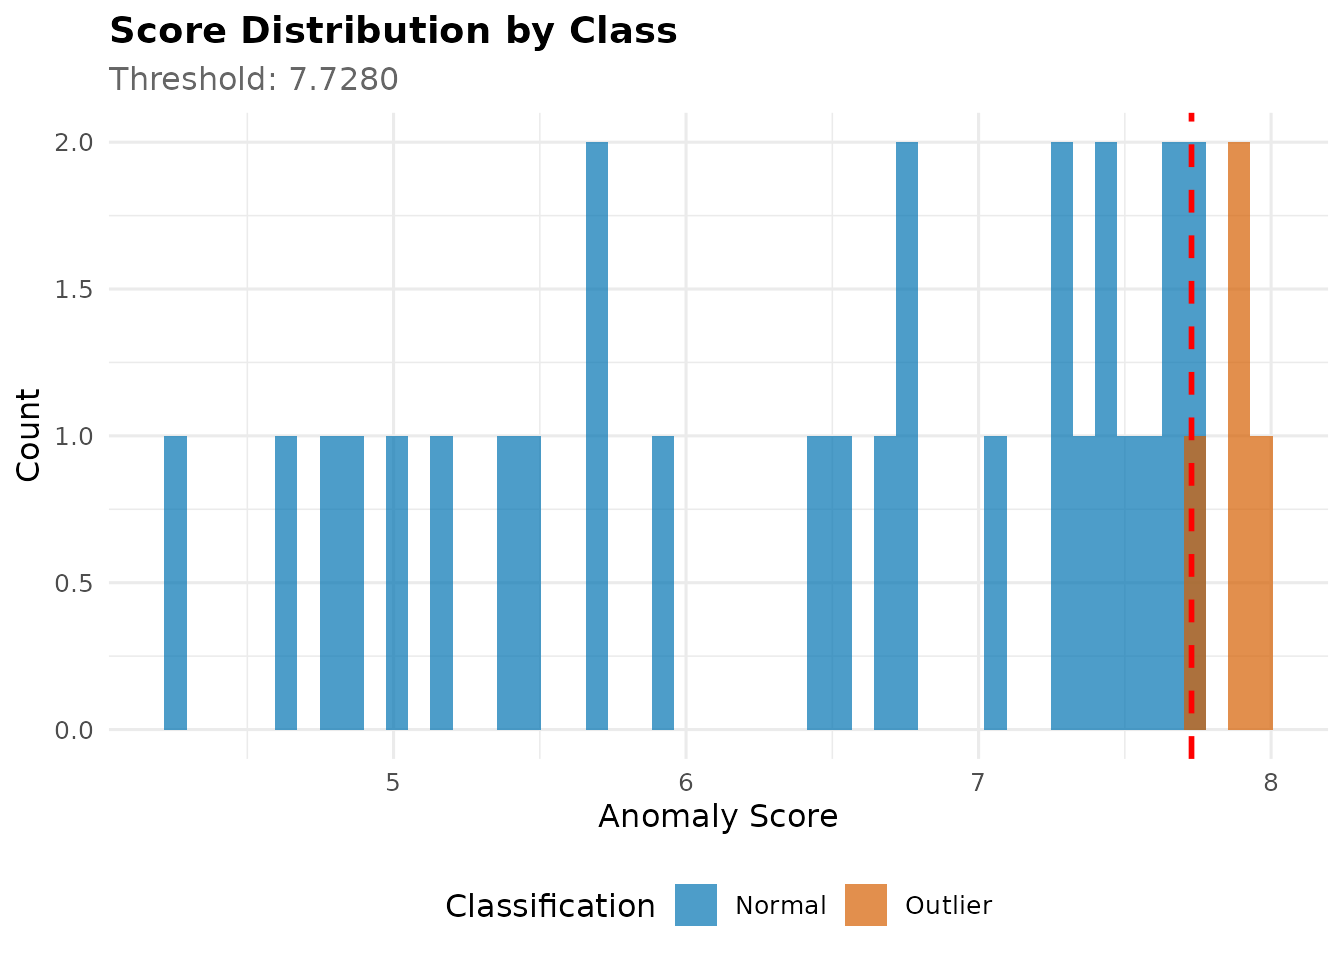
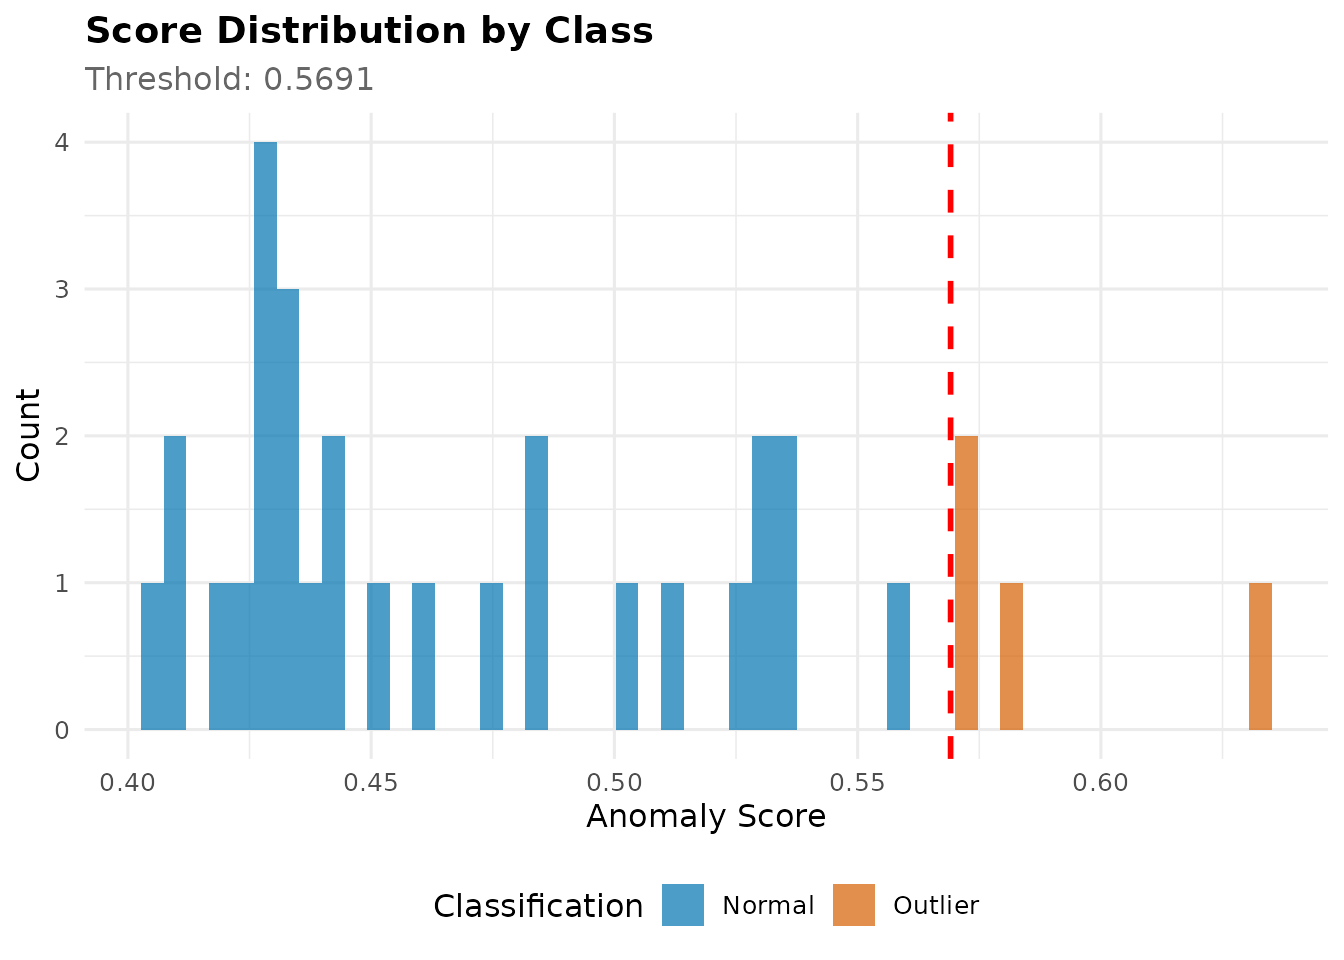
Deploying to gh-pages from @ fabiandistler/outlieR@ab6ea994765ed18bee1f989ade87fab2d98b21fa 🚀

diff --git a/articles/getting-started.html b/articles/getting-started.html
@@ -81,7 +81,7 @@
                         <h4 data-toc-skip class="author">Fabian
 Distler</h4>
             
-            <h4 data-toc-skip class="date">2025-10-14</h4>
+            <h4 data-toc-skip class="date">2025-10-15</h4>
       
       <small class="dont-index">Source: <a href="https://github.com/fabiandistler/outlieR/blob/main/vignettes/getting-started.Rmd" class="external-link"><code>vignettes/getting-started.Rmd</code></a></small>
       <div class="hidden name"><code>getting-started.Rmd</code></div>
@@ -765,25 +765,25 @@ easy to find outliers:</p>
 <span><span class="co">#&gt; </span></span>
 <span><span class="co">#&gt; Model Configuration:</span></span>
 <span><span class="co">#&gt;   - Algorithm: Isolation Forest (isotree)</span></span>
-<span><span class="co">#&gt;   - Number of trees: 100 </span></span>
+<span><span class="co">#&gt;   - Number of trees: 300 </span></span>
 <span><span class="co">#&gt;   - Sample size: 32 </span></span>
 <span><span class="co">#&gt;   - Max depth: auto </span></span>
 <span><span class="co">#&gt; </span></span>
 <span><span class="co">#&gt; Detection Summary:</span></span>
 <span><span class="co">#&gt;   - Total observations: 32 </span></span>
 <span><span class="co">#&gt;   - Outliers detected: 4 ( 12.5 %)</span></span>
-<span><span class="co">#&gt;   - Anomaly score threshold: 7.728 </span></span>
+<span><span class="co">#&gt;   - Anomaly score threshold: 0.5691 </span></span>
 <span><span class="co">#&gt; </span></span>
 <span><span class="co">#&gt; Performance Metrics:</span></span>
-<span><span class="co">#&gt;   - mean_score : 6.5943 </span></span>
-<span><span class="co">#&gt;   - median_score : 6.9318 </span></span>
-<span><span class="co">#&gt;   - sd_score : 1.1581 </span></span>
-<span><span class="co">#&gt;   - min_score : 4.2544 </span></span>
-<span><span class="co">#&gt;   - max_score : 7.9675 </span></span>
-<span><span class="co">#&gt;   - mean_outlier_score : 7.8678 </span></span>
-<span><span class="co">#&gt;   - mean_normal_score : 6.4124 </span></span>
-<span><span class="co">#&gt;   - cohens_d : 1.8233 </span></span>
-<span><span class="co">#&gt;   - outlier_separation : 1.2567 </span></span>
+<span><span class="co">#&gt;   - mean_score : 0.4795 </span></span>
+<span><span class="co">#&gt;   - median_score : 0.4564 </span></span>
+<span><span class="co">#&gt;   - sd_score : 0.0617 </span></span>
+<span><span class="co">#&gt;   - min_score : 0.405 </span></span>
+<span><span class="co">#&gt;   - max_score : 0.6327 </span></span>
+<span><span class="co">#&gt;   - mean_outlier_score : 0.5898 </span></span>
+<span><span class="co">#&gt;   - mean_normal_score : 0.4637 </span></span>
+<span><span class="co">#&gt;   - cohens_d : 3.2198 </span></span>
+<span><span class="co">#&gt;   - outlier_separation : 2.0432 </span></span>
 <span><span class="co">#&gt;   - detection_rate : 0.125 </span></span>
 <span><span class="co">#&gt;   - expected_contamination : 0.1 </span></span>
 <span><span class="co">#&gt;   - actual_contamination : 0.125 </span></span>
@@ -800,39 +800,39 @@ easy to find outliers:</p>
 <span><span class="fu">utils</span><span class="fu">::</span><span class="fu"><a href="https://rdrr.io/r/utils/head.html" class="external-link">head</a></span><span class="op">(</span><span class="va">summary_dt</span><span class="op">)</span></span>
 <span><span class="co">#&gt;    row_id anomaly_score n_outlier_features</span></span>
 <span><span class="co">#&gt;     &lt;int&gt;         &lt;num&gt;              &lt;int&gt;</span></span>
-<span><span class="co">#&gt; 1:     23      7.967466                  0</span></span>
-<span><span class="co">#&gt; 2:     14      7.893872                  0</span></span>
-<span><span class="co">#&gt; 3:     12      7.880798                  0</span></span>
-<span><span class="co">#&gt; 4:      5      7.729028                  0</span></span>
+<span><span class="co">#&gt; 1:     19     0.6327487                  0</span></span>
+<span><span class="co">#&gt; 2:     27     0.5829330                  0</span></span>
+<span><span class="co">#&gt; 3:     30     0.5733040                  0</span></span>
+<span><span class="co">#&gt; 4:     28     0.5701941                  0</span></span>
 <span></span>
 <span><span class="co"># Detailed information with feature scores</span></span>
 <span><span class="va">detailed_dt</span> <span class="op">&lt;-</span> <span class="fu"><a href="../reference/get_outlier_summary.html">get_outlier_summary</a></span><span class="op">(</span><span class="va">result</span>, detailed <span class="op">=</span> <span class="cn">TRUE</span><span class="op">)</span></span>
 <span><span class="fu">utils</span><span class="fu">::</span><span class="fu"><a href="https://rdrr.io/r/utils/head.html" class="external-link">head</a></span><span class="op">(</span><span class="va">detailed_dt</span>, <span class="fl">3</span><span class="op">)</span></span>
 <span><span class="co">#&gt;    row_id anomaly_score is_outlier feat_score_mpg feat_score_cyl</span></span>
 <span><span class="co">#&gt;     &lt;int&gt;         &lt;num&gt;     &lt;lgcl&gt;          &lt;num&gt;          &lt;num&gt;</span></span>
-<span><span class="co">#&gt; 1:     23      7.967466       TRUE      0.7391680      0.6744908</span></span>
-<span><span class="co">#&gt; 2:     14      7.893872       TRUE      0.7391680      0.6744908</span></span>
-<span><span class="co">#&gt; 3:     12      7.880798       TRUE      0.5174176      0.6744908</span></span>
+<span><span class="co">#&gt; 1:     19     0.6327487       TRUE     2.06967028      0.6744908</span></span>
+<span><span class="co">#&gt; 2:     27     0.5829330       TRUE     1.25658552      0.6744908</span></span>
+<span><span class="co">#&gt; 3:     30     0.5733040       TRUE     0.09239599      0.0000000</span></span>
 <span><span class="co">#&gt;    feat_score_disp feat_score_hp feat_score_drat feat_score_wt feat_score_qsec</span></span>
 <span><span class="co">#&gt;              &lt;num&gt;         &lt;num&gt;           &lt;num&gt;         &lt;num&gt;           &lt;num&gt;</span></span>
-<span><span class="co">#&gt; 1:       0.7666771     0.3502164       0.7738894     0.1433700       0.2895719</span></span>
-<span><span class="co">#&gt; 2:       0.5659316     0.7393456       0.8874878     0.5930305       0.2048192</span></span>
-<span><span class="co">#&gt; 3:       0.5659316     0.7393456       0.8874878     0.9710060       0.2189446</span></span>
+<span><span class="co">#&gt; 1:       0.8585075     0.9209393       1.7536760     2.2287521       0.5720812</span></span>
+<span><span class="co">#&gt; 2:       0.5410163     0.4150712       1.0436857     1.5444861       0.7133358</span></span>
+<span><span class="co">#&gt; 3:       0.3651860     0.6744908       0.1064985     0.7233669       1.5608634</span></span>
 <span><span class="co">#&gt;    feat_score_vs feat_score_am feat_score_gear feat_score_carb</span></span>
 <span><span class="co">#&gt;            &lt;num&gt;         &lt;num&gt;           &lt;num&gt;           &lt;num&gt;</span></span>
-<span><span class="co">#&gt; 1:             0             0       0.6744908       0.0000000</span></span>
-<span><span class="co">#&gt; 2:             0             0       0.6744908       0.6744908</span></span>
-<span><span class="co">#&gt; 3:             0             0       0.6744908       0.6744908</span></span>
+<span><span class="co">#&gt; 1:             0             0       0.0000000        0.000000</span></span>
+<span><span class="co">#&gt; 2:             0             0       0.6744908        0.000000</span></span>
+<span><span class="co">#&gt; 3:             0             0       0.6744908        2.697963</span></span>
 <span><span class="co">#&gt;    n_outlier_features top_outlier_features   mpg   cyl  disp    hp  drat    wt</span></span>
 <span><span class="co">#&gt;                 &lt;int&gt;               &lt;char&gt; &lt;num&gt; &lt;num&gt; &lt;num&gt; &lt;num&gt; &lt;num&gt; &lt;num&gt;</span></span>
-<span><span class="co">#&gt; 1:                  0      drat, disp, mpg  15.2     8 304.0   150  3.15 3.435</span></span>
-<span><span class="co">#&gt; 2:                  0        drat, hp, mpg  15.2     8 275.8   180  3.07 3.780</span></span>
-<span><span class="co">#&gt; 3:                  0         wt, drat, hp  16.4     8 275.8   180  3.07 4.070</span></span>
+<span><span class="co">#&gt; 1:                  0        wt, mpg, drat  30.4     4  75.7    52  4.93 1.615</span></span>
+<span><span class="co">#&gt; 2:                  0        wt, mpg, drat  26.0     4 120.3    91  4.43 2.140</span></span>
+<span><span class="co">#&gt; 3:                  0       carb, qsec, wt  19.7     6 145.0   175  3.62 2.770</span></span>
 <span><span class="co">#&gt;     qsec    vs    am  gear  carb</span></span>
 <span><span class="co">#&gt;    &lt;num&gt; &lt;num&gt; &lt;num&gt; &lt;num&gt; &lt;num&gt;</span></span>
-<span><span class="co">#&gt; 1:  17.3     0     0     3     2</span></span>
-<span><span class="co">#&gt; 2:  18.0     0     0     3     3</span></span>
-<span><span class="co">#&gt; 3:  17.4     0     0     3     3</span></span></code></pre></div>
+<span><span class="co">#&gt; 1: 18.52     1     1     4     2</span></span>
+<span><span class="co">#&gt; 2: 16.70     0     1     5     2</span></span>
+<span><span class="co">#&gt; 3: 15.50     0     1     5     6</span></span></code></pre></div>
 </div>
 <div class="section level3">
 <h3 id="visualizations">Visualizations<a class="anchor" aria-label="anchor" href="#visualizations"></a>
@@ -1732,6 +1732,11 @@ one-hot encoding:</p>
 <span><span class="co">#&gt; 500, : Split type probabilities sum to more than 1, will standardize them</span></span>
 <span><span class="co">#&gt; Warning in (function (data, sample_size = min(nrow(data), 10000L), ntrees =</span></span>
 <span><span class="co">#&gt; 500, : Split type probabilities sum to more than 1, will standardize them</span></span>
+<span><span class="co">#&gt; Warning in (function (data, sample_size = min(nrow(data), 10000L), ntrees =</span></span>
+<span><span class="co">#&gt; 500, : Passed parameters for deterministic single-variable splits with no</span></span>
+<span><span class="co">#&gt; sub-sampling. Every tree fitted will end up doing exactly the same splits. It's</span></span>
+<span><span class="co">#&gt; recommended to set non-random split probabilities to less than 1, or to use the</span></span>
+<span><span class="co">#&gt; extended model (ndim &gt; 1).</span></span>
 <span></span>
 <span><span class="co"># Display preprocessing information</span></span>
 <span><span class="fu"><a href="https://rdrr.io/r/base/cat.html" class="external-link">cat</a></span><span class="op">(</span><span class="st">"Original columns:"</span>, <span class="va">result_mixed</span><span class="op">$</span><span class="va">preprocessing</span><span class="op">$</span><span class="va">original_cols</span>, <span class="st">"\n"</span><span class="op">)</span></span>
@@ -2535,42 +2540,42 @@ one-hot encoding:</p>
 <span></span>
 <span><span class="co"># Score statistics</span></span>
 <span><span class="fu"><a href="https://rdrr.io/r/base/cat.html" class="external-link">cat</a></span><span class="op">(</span><span class="st">"Score range:"</span>, <span class="fu"><a href="https://rdrr.io/r/base/range.html" class="external-link">range</a></span><span class="op">(</span><span class="va">result</span><span class="op">$</span><span class="va">scores</span><span class="op">)</span>, <span class="st">"\n"</span><span class="op">)</span></span>
-<span><span class="co">#&gt; Score range: 4.254368 7.967466</span></span>
+<span><span class="co">#&gt; Score range: 0.4050309 0.6327487</span></span>
 <span><span class="fu"><a href="https://rdrr.io/r/base/cat.html" class="external-link">cat</a></span><span class="op">(</span><span class="st">"Score mean:"</span>, <span class="fu"><a href="https://rdrr.io/r/base/mean.html" class="external-link">mean</a></span><span class="op">(</span><span class="va">result</span><span class="op">$</span><span class="va">scores</span><span class="op">)</span>, <span class="st">"\n"</span><span class="op">)</span></span>
-<span><span class="co">#&gt; Score mean: 6.594308</span></span>
-<span><span class="fu"><a href="https://rdrr.io/r/base/cat.html" class="external-link">cat</a></span><span class="op">(</span><span class="st">"Score SD:"</span>, <span class="fu"><a href="https://rdrr.io/r/stats/sd.html" class="external-link">sd</a></span><span class="op">(</span><span class="va">result</span><span class="op">$</span><span class="va">scores</span><span class="op">)</span>, <span class="st">"\n"</span><span class="op">)</span></span>
-<span><span class="co">#&gt; Score SD: 1.158128</span></span>
+<span><span class="co">#&gt; Score mean: 0.4794962</span></span>
+<span><span class="fu"><a href="https://rdrr.io/r/base/cat.html" class="external-link">cat</a></span><span class="op">(</span><span class="st">"Score SD:"</span>, <span class="fu">stats</span><span class="fu">::</span><span class="fu"><a href="https://rdrr.io/r/stats/sd.html" class="external-link">sd</a></span><span class="op">(</span><span class="va">result</span><span class="op">$</span><span class="va">scores</span><span class="op">)</span>, <span class="st">"\n"</span><span class="op">)</span></span>
+<span><span class="co">#&gt; Score SD: 0.06169555</span></span>
 <span><span class="fu"><a href="https://rdrr.io/r/base/cat.html" class="external-link">cat</a></span><span class="op">(</span><span class="st">"Threshold:"</span>, <span class="va">result</span><span class="op">$</span><span class="va">threshold</span>, <span class="st">"\n"</span><span class="op">)</span></span>
-<span><span class="co">#&gt; Threshold: 7.728002</span></span>
+<span><span class="co">#&gt; Threshold: 0.5691022</span></span>
 <span></span>
 <span><span class="co"># View metrics</span></span>
 <span><span class="fu"><a href="https://rdrr.io/r/base/print.html" class="external-link">print</a></span><span class="op">(</span><span class="va">result</span><span class="op">$</span><span class="va">metrics</span><span class="op">)</span></span>
 <span><span class="co">#&gt; $mean_score</span></span>
-<span><span class="co">#&gt; [1] 6.594308</span></span>
+<span><span class="co">#&gt; [1] 0.4794962</span></span>
 <span><span class="co">#&gt; </span></span>
 <span><span class="co">#&gt; $median_score</span></span>
-<span><span class="co">#&gt; [1] 6.931768</span></span>
+<span><span class="co">#&gt; [1] 0.4564028</span></span>
 <span><span class="co">#&gt; </span></span>
 <span><span class="co">#&gt; $sd_score</span></span>
-<span><span class="co">#&gt; [1] 1.158128</span></span>
+<span><span class="co">#&gt; [1] 0.06169555</span></span>
 <span><span class="co">#&gt; </span></span>
 <span><span class="co">#&gt; $min_score</span></span>
-<span><span class="co">#&gt; [1] 4.254368</span></span>
+<span><span class="co">#&gt; [1] 0.4050309</span></span>
 <span><span class="co">#&gt; </span></span>
 <span><span class="co">#&gt; $max_score</span></span>
-<span><span class="co">#&gt; [1] 7.967466</span></span>
+<span><span class="co">#&gt; [1] 0.6327487</span></span>
 <span><span class="co">#&gt; </span></span>
 <span><span class="co">#&gt; $mean_outlier_score</span></span>
-<span><span class="co">#&gt; [1] 7.867791</span></span>
+<span><span class="co">#&gt; [1] 0.589795</span></span>
 <span><span class="co">#&gt; </span></span>
 <span><span class="co">#&gt; $mean_normal_score</span></span>
-<span><span class="co">#&gt; [1] 6.412382</span></span>
+<span><span class="co">#&gt; [1] 0.4637392</span></span>
 <span><span class="co">#&gt; </span></span>
 <span><span class="co">#&gt; $cohens_d</span></span>
-<span><span class="co">#&gt; [1] 1.823337</span></span>
+<span><span class="co">#&gt; [1] 3.219806</span></span>
 <span><span class="co">#&gt; </span></span>
 <span><span class="co">#&gt; $outlier_separation</span></span>
-<span><span class="co">#&gt; [1] 1.256691</span></span>
+<span><span class="co">#&gt; [1] 2.04319</span></span>
 <span><span class="co">#&gt; </span></span>
 <span><span class="co">#&gt; $detection_rate</span></span>
 <span><span class="co">#&gt; [1] 0.125</span></span>
